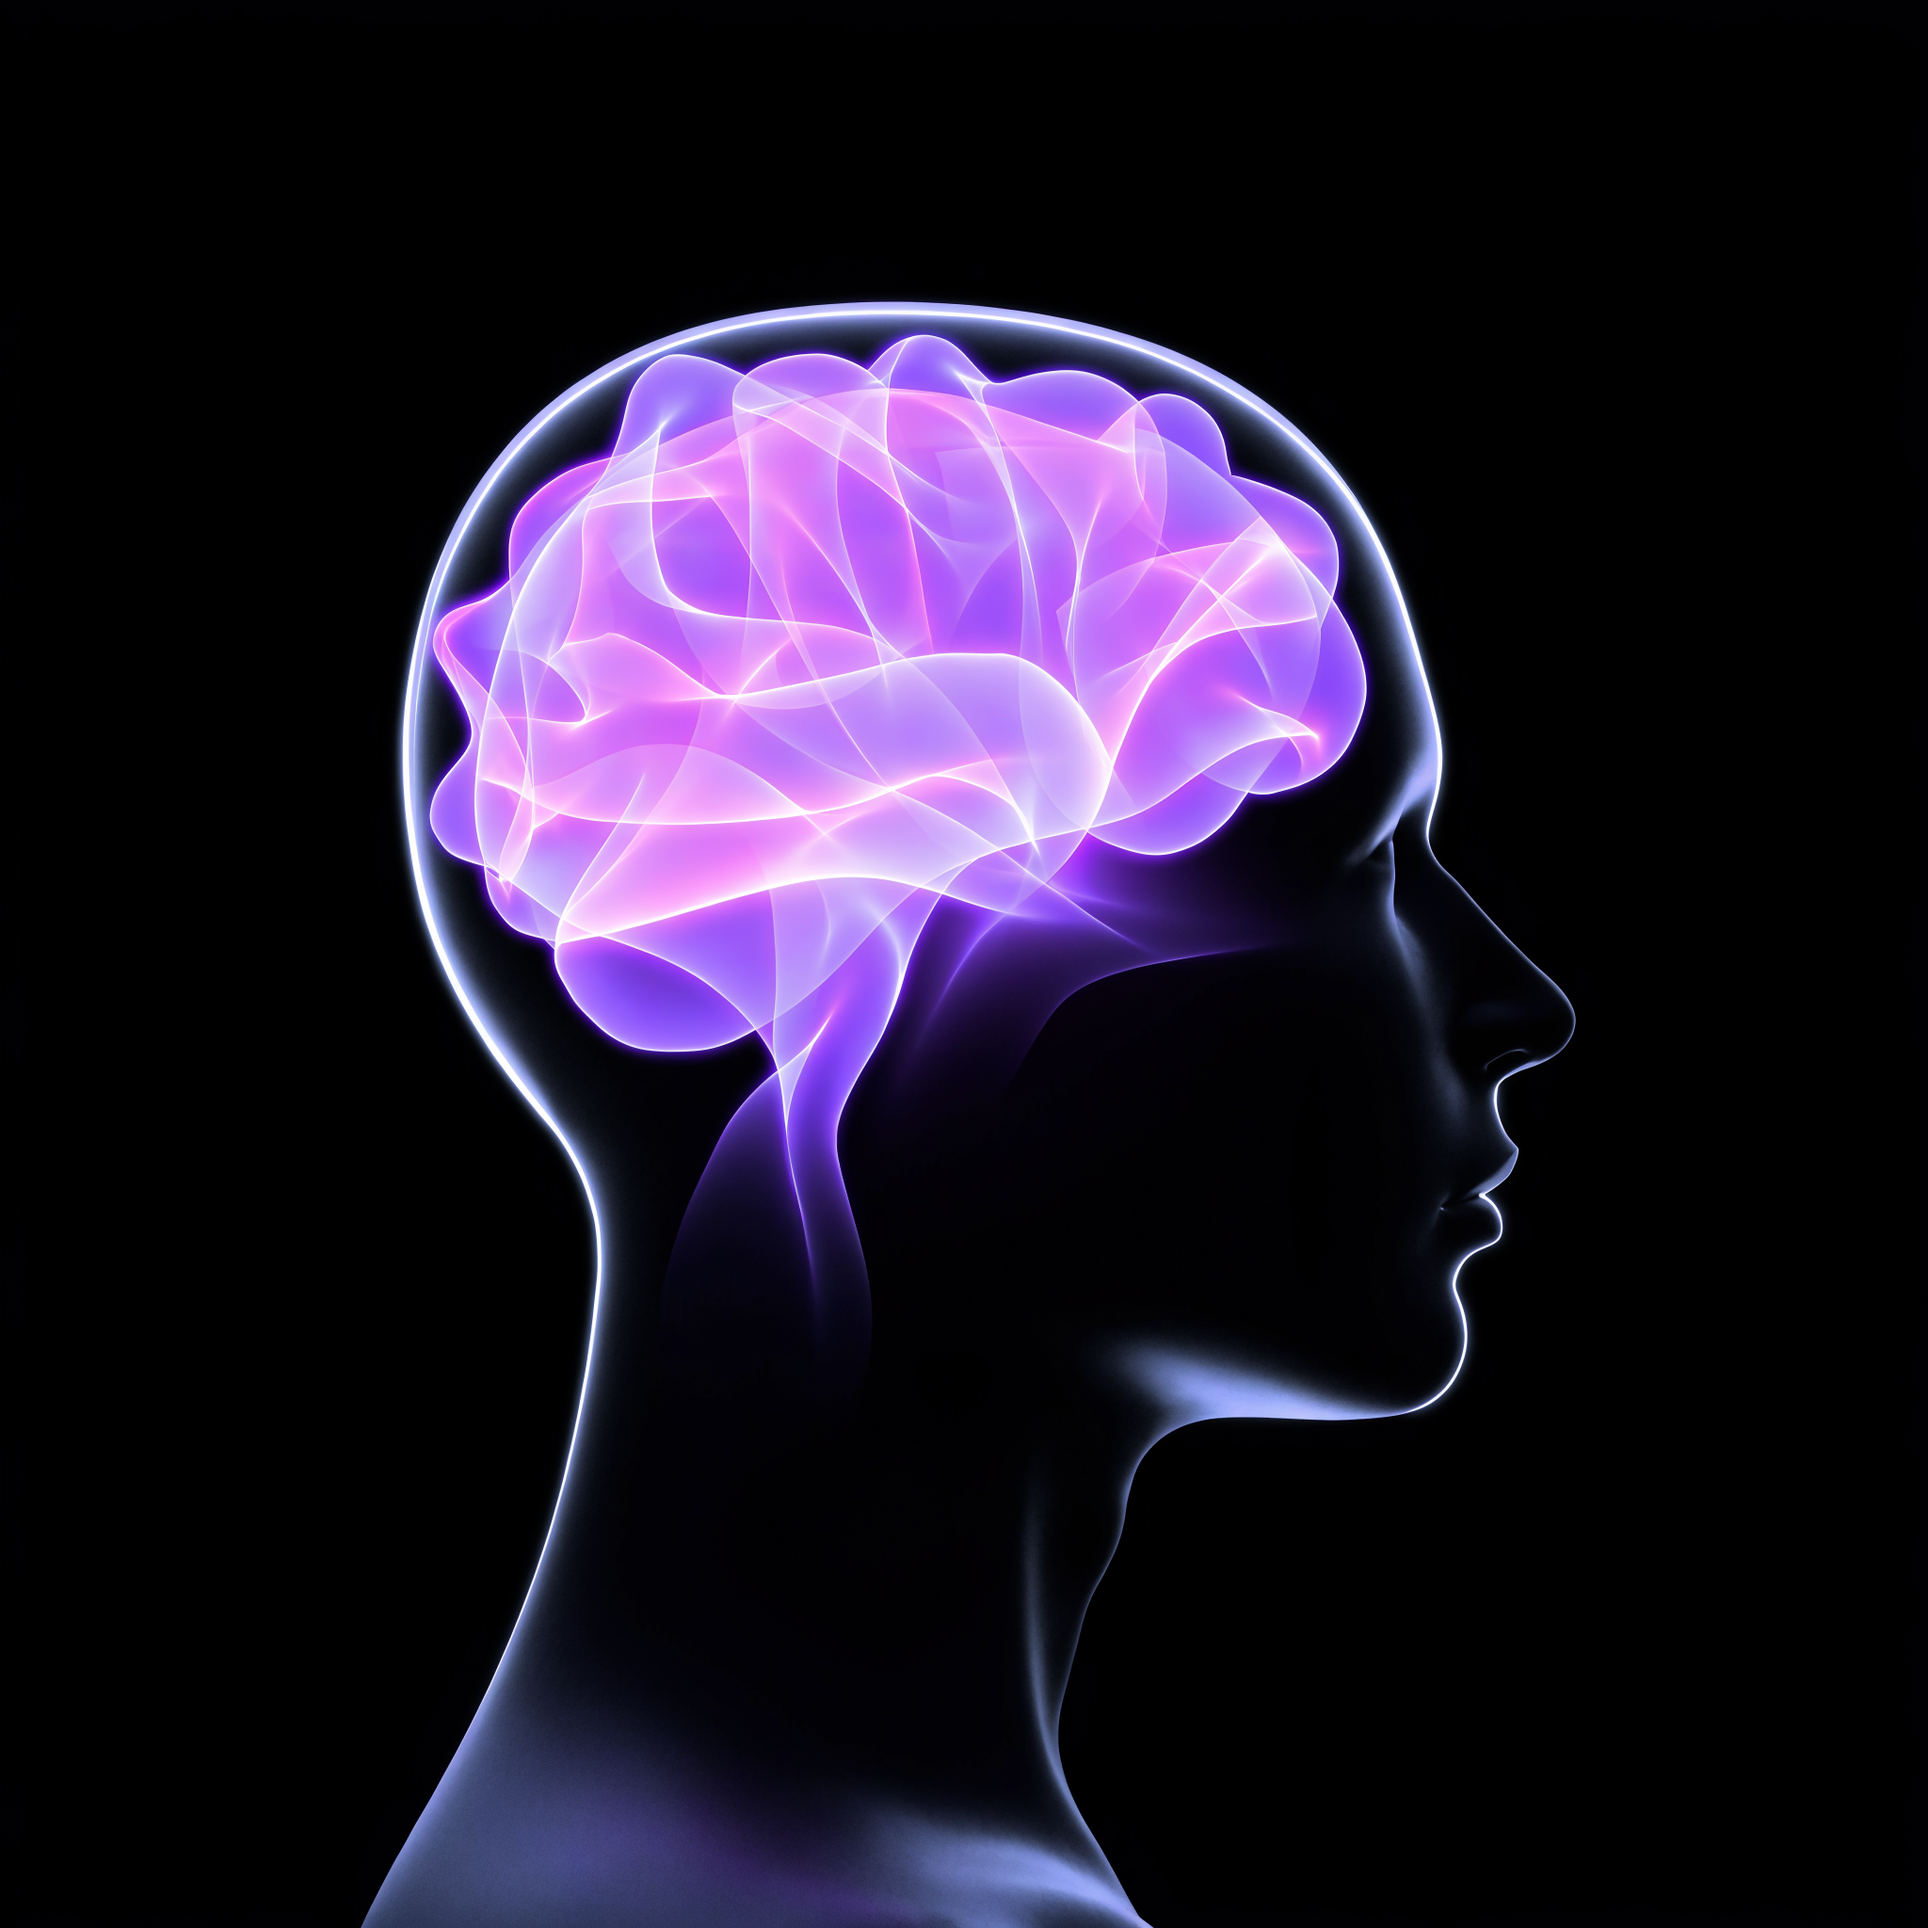
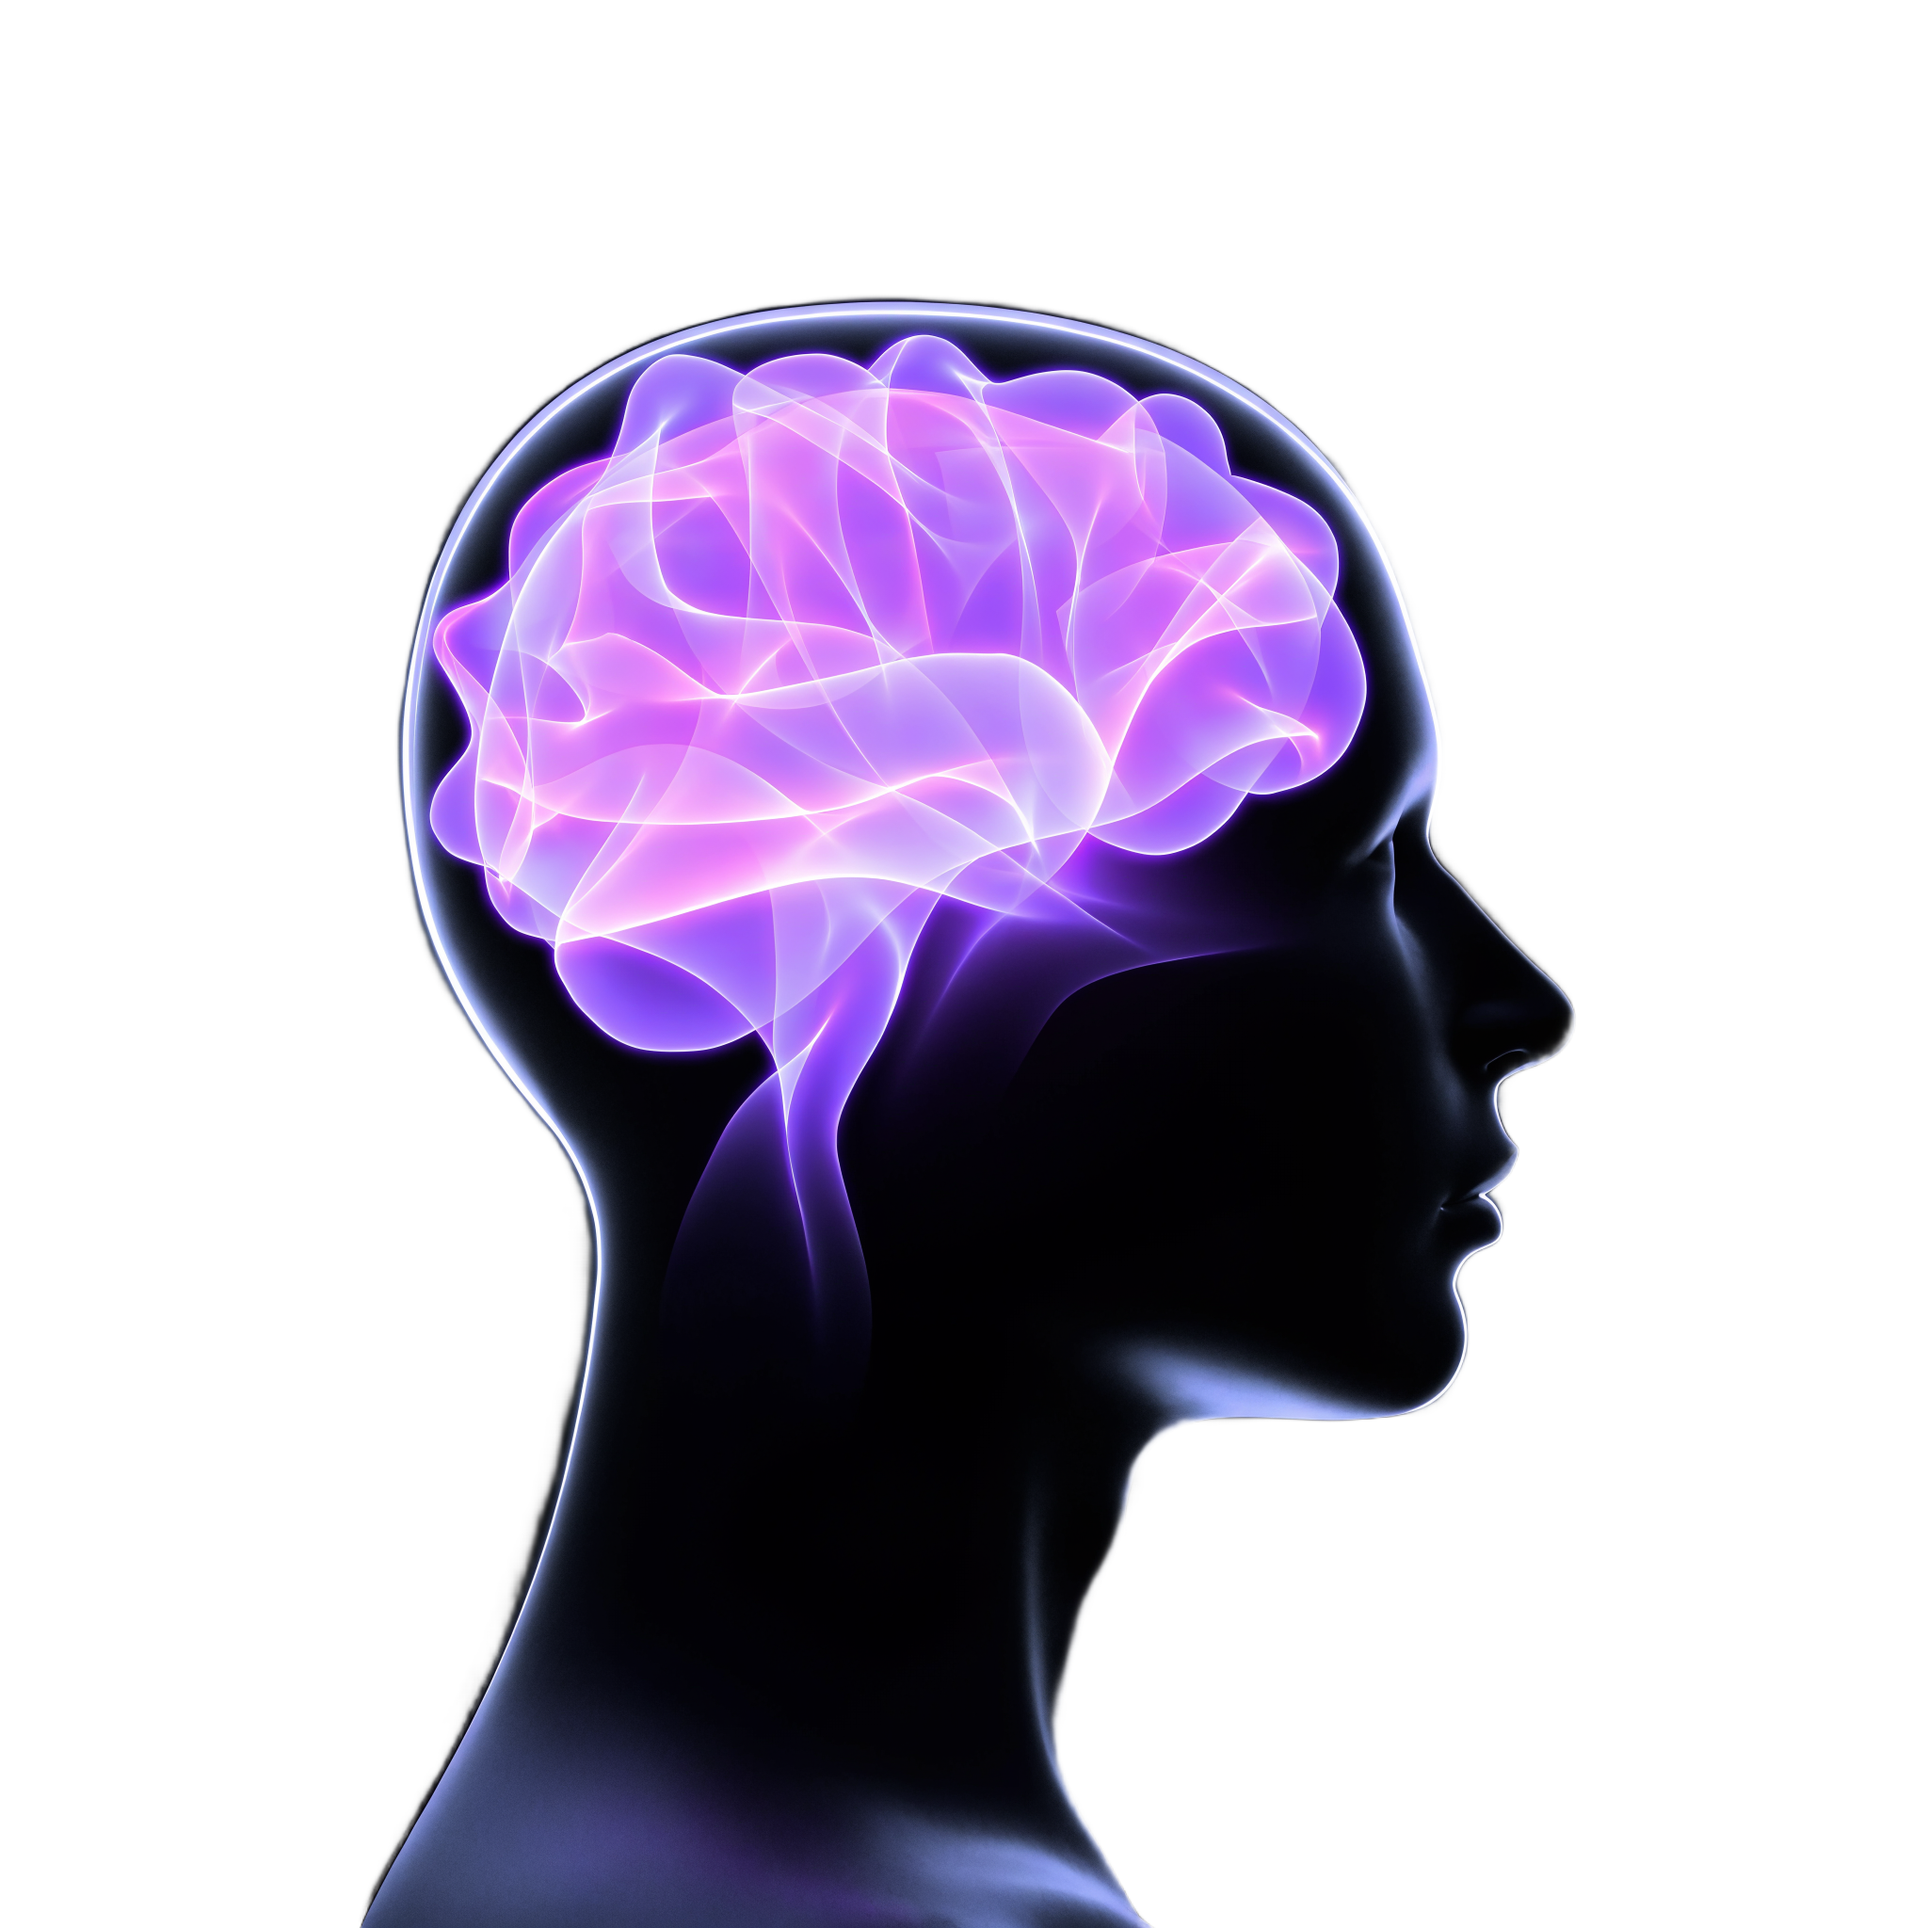
Kill black boxes for good: WebGL hero, transparent cut-out brain, pillar cards
- Hero visual is now the interactive WebGL chrome object (transparent canvas —
  a black box is physically impossible), replacing the raster glass figure
- Freedom-scene brain uses the real background-removed transparent PNG (RGBA),
  drop-shadow glow instead of mix-blend; scene bg simplified
- Подход method block: 3 pillar cards (Бенефактор / Высшее Я / нейросвязи)
  instead of a boxed image
- Stat-card figures stay on intentional black cards (no box there)

Claude-Session: https://claude.ai/code/session_014juswjEphrTsz2rNmKCW8y

diff --git a/index.html b/index.html
@@ -114,13 +114,18 @@
 
   /* freedom scatter scene */
   .scene{position:relative;height:230vh}
-  .scene-sticky{position:sticky;top:0;height:100svh;overflow:hidden;background:radial-gradient(130% 100% at 50% 54%,#09040f 0%,#09040f 46%,#140826 100%)}
+  .scene-sticky{position:sticky;top:0;height:100svh;overflow:hidden;background:radial-gradient(120% 100% at 50% 55%,#14082a 0%,#0a0518 60%,#070311 100%)}
+  .pillars{display:flex;flex-direction:column;gap:16px}
+  .pillar{padding:24px 26px;border-radius:18px;border:1px solid var(--line);background:linear-gradient(160deg,rgba(139,92,246,.12),rgba(18,9,32,.3));transition:transform .4s var(--ease),border-color .4s}
+  .pillar:hover{transform:translateX(6px);border-color:rgba(240,171,252,.45)}
+  .pillar h4{font-family:'Manrope';font-weight:800;font-size:19px;margin-bottom:6px}
+  .pillar p{font-size:14px;color:var(--ink-d)}
   .scene-title{position:relative;z-index:6;padding-top:96px;pointer-events:none}
   .scene-title h2{font-family:'Manrope';font-weight:800;font-size:clamp(26px,4.4vw,56px);line-height:1.04;letter-spacing:-.02em;max-width:19ch;margin-top:14px}
   .scene-title h2 em{font-style:normal;color:transparent;background:linear-gradient(100deg,var(--violet-2),var(--magenta));-webkit-background-clip:text;background-clip:text}
   .mind{position:absolute;inset:0;z-index:2;pointer-events:none}
   .head-wrap{position:absolute;left:50%;top:60%;transform:translate(-50%,-50%);width:min(46vh,380px);aspect-ratio:1/1;z-index:2}
-  .head-wrap img{width:100%;height:100%;object-fit:contain;mix-blend-mode:screen;will-change:transform}
+  .head-wrap img{width:100%;height:100%;object-fit:contain;filter:drop-shadow(0 0 46px rgba(217,70,239,.4));will-change:transform}
   .glow{position:absolute;left:50%;top:50%;transform:translate(-50%,-50%);border-radius:50%;filter:blur(46px);will-change:opacity}
   .glow.g-chaos{width:56%;height:56%;background:radial-gradient(circle,var(--magenta),transparent 68%);opacity:.7}
   .glow.g-calm{width:70%;height:70%;background:radial-gradient(circle,#22d3ee,transparent 66%);opacity:0}
@@ -250,7 +255,7 @@
       </div>
       <p class="who"><b>Игорь Стрельников</b> — эксперт по работе с подсознанием, проводник к Высшему Я, гипнолог, нейрокоуч и создатель авторской системы «Бенефактор».</p>
     </div>
-    <div class="hero-visual"><img src="assets/fig2.webp" alt=""></div>
+    <div class="hero-visual chrome-stage"><canvas id="chrome-canvas"></canvas></div>
   </section>
 
   <!-- ===== PAINS ===== -->
@@ -296,18 +301,17 @@
   <!-- ===== APPROACH: method + chrome ===== -->
   <section class="blk" id="approach">
     <div class="wrap method">
-      <div class="chrome-stage rv">
-        <canvas id="chrome-canvas"></canvas>
-        <div class="orbit o1">Авторская система «Бенефактор»</div>
-        <div class="orbit o2">Соединение с Высшим&nbsp;Я</div>
-        <div class="orbit o3">Работа с нейросвязями</div>
+      <div class="pillars">
+        <div class="pillar rv"><h4>Авторская система «Бенефактор»</h4><p>Соединяет Высшее Я (сверхсознание), сознание и подсознание в одно целое.</p></div>
+        <div class="pillar rv d1"><h4>Соединение с Высшим Я</h4><p>Подключаемся к вашему сверхсознанию — источнику ответов, ресурса и решений.</p></div>
+        <div class="pillar rv d2"><h4>Работа с нейросвязями</h4><p>Убираем «программы-вирусы» и выстраиваем новые нейронные связи — устойчиво.</p></div>
       </div>
       <div class="txt">
         <span class="eyebrow rv">Подход</span>
         <h2 class="rv d1">Ваш мозг как компьютер</h2>
         <p class="rv d2">В нём есть программы, которые включаются автоматически. Некоторые нужные, а некоторые — <b>как вирусы</b> (негативные программы). Мой подход работает с подсознательными убеждениями, эмоциями и шаблонами, которые мешают вам жить желаемой жизнью.</p>
         <p class="rv d3">На сессиях мы заменим старые установки на новые — благодаря чему вы станете <b>творцом своей жизни</b>. Соединим Высшее Я (сверхсознание), душу и тело.</p>
-        <div class="brain-note rv d3">🧠 <b>3D-модель мозга</b> — по твоей ссылке вставлю живую GLB-модель прямо сюда: будет вращаться и реагировать на курсор.</div>
+        <div class="brain-note rv d3">🧠 <b>3D-модель мозга</b> — пришлёшь ссылку на GLB, и я вставлю живую модель (вращение + реакция на курсор) в сцену ниже вместо плоского мозга.</div>
       </div>
     </div>
   </section>
